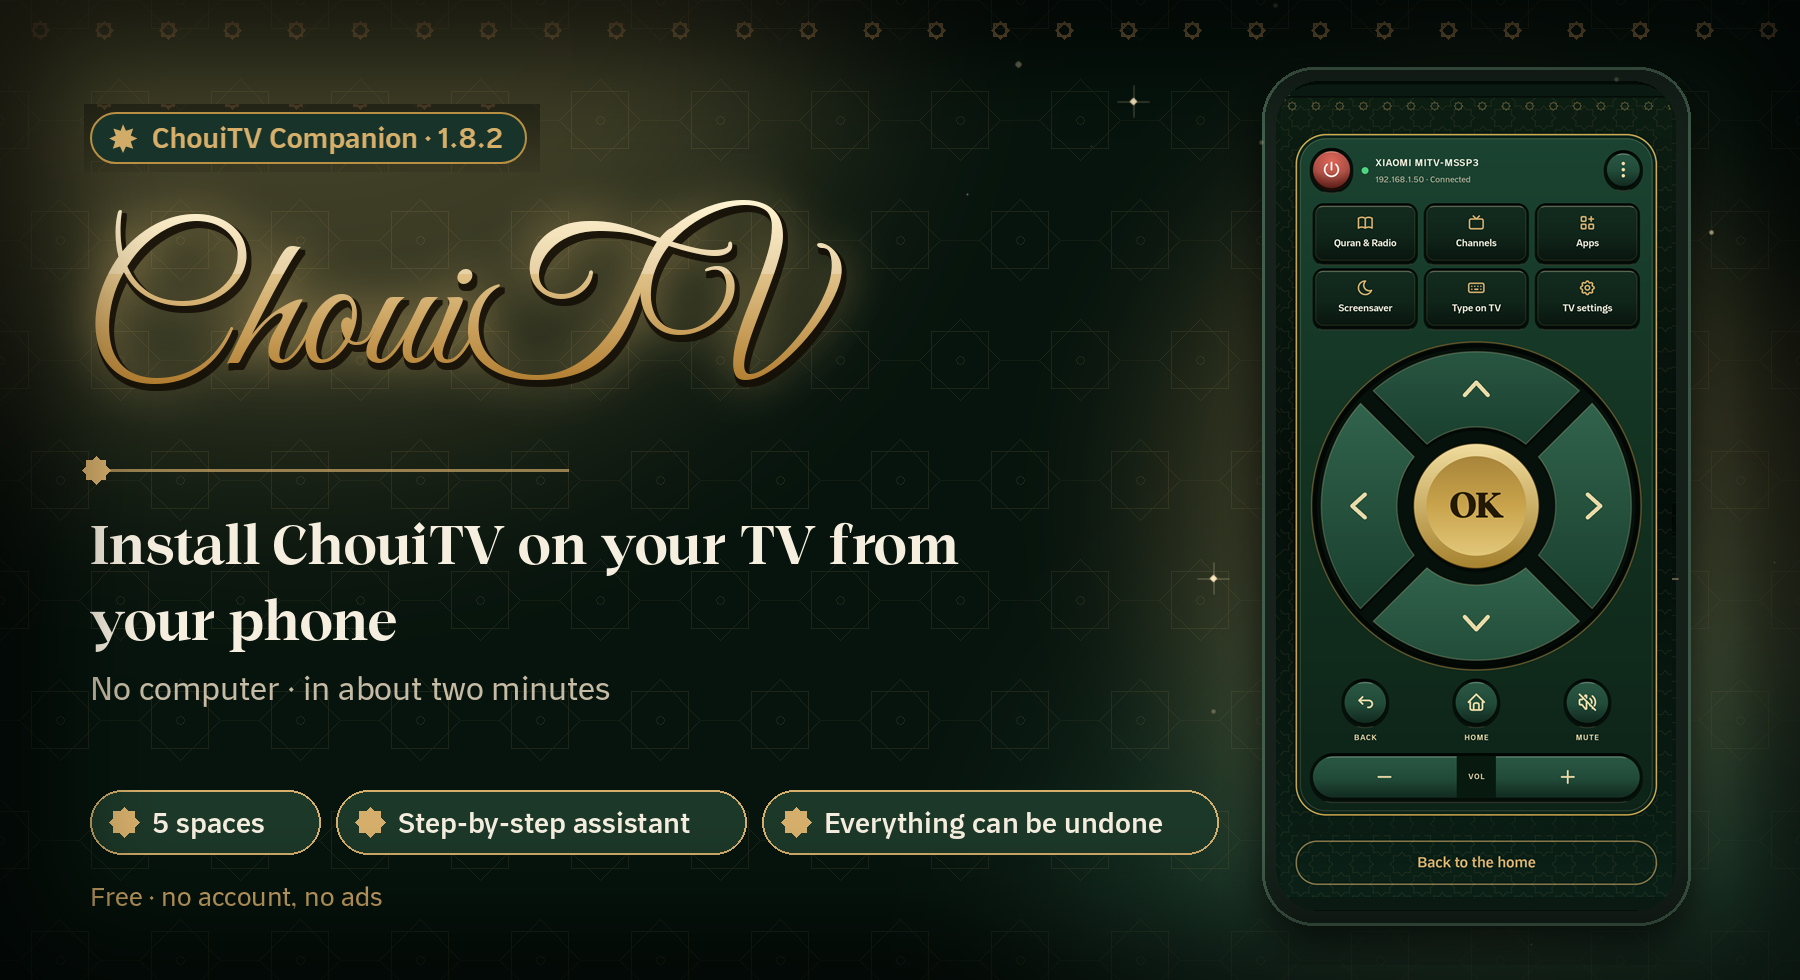
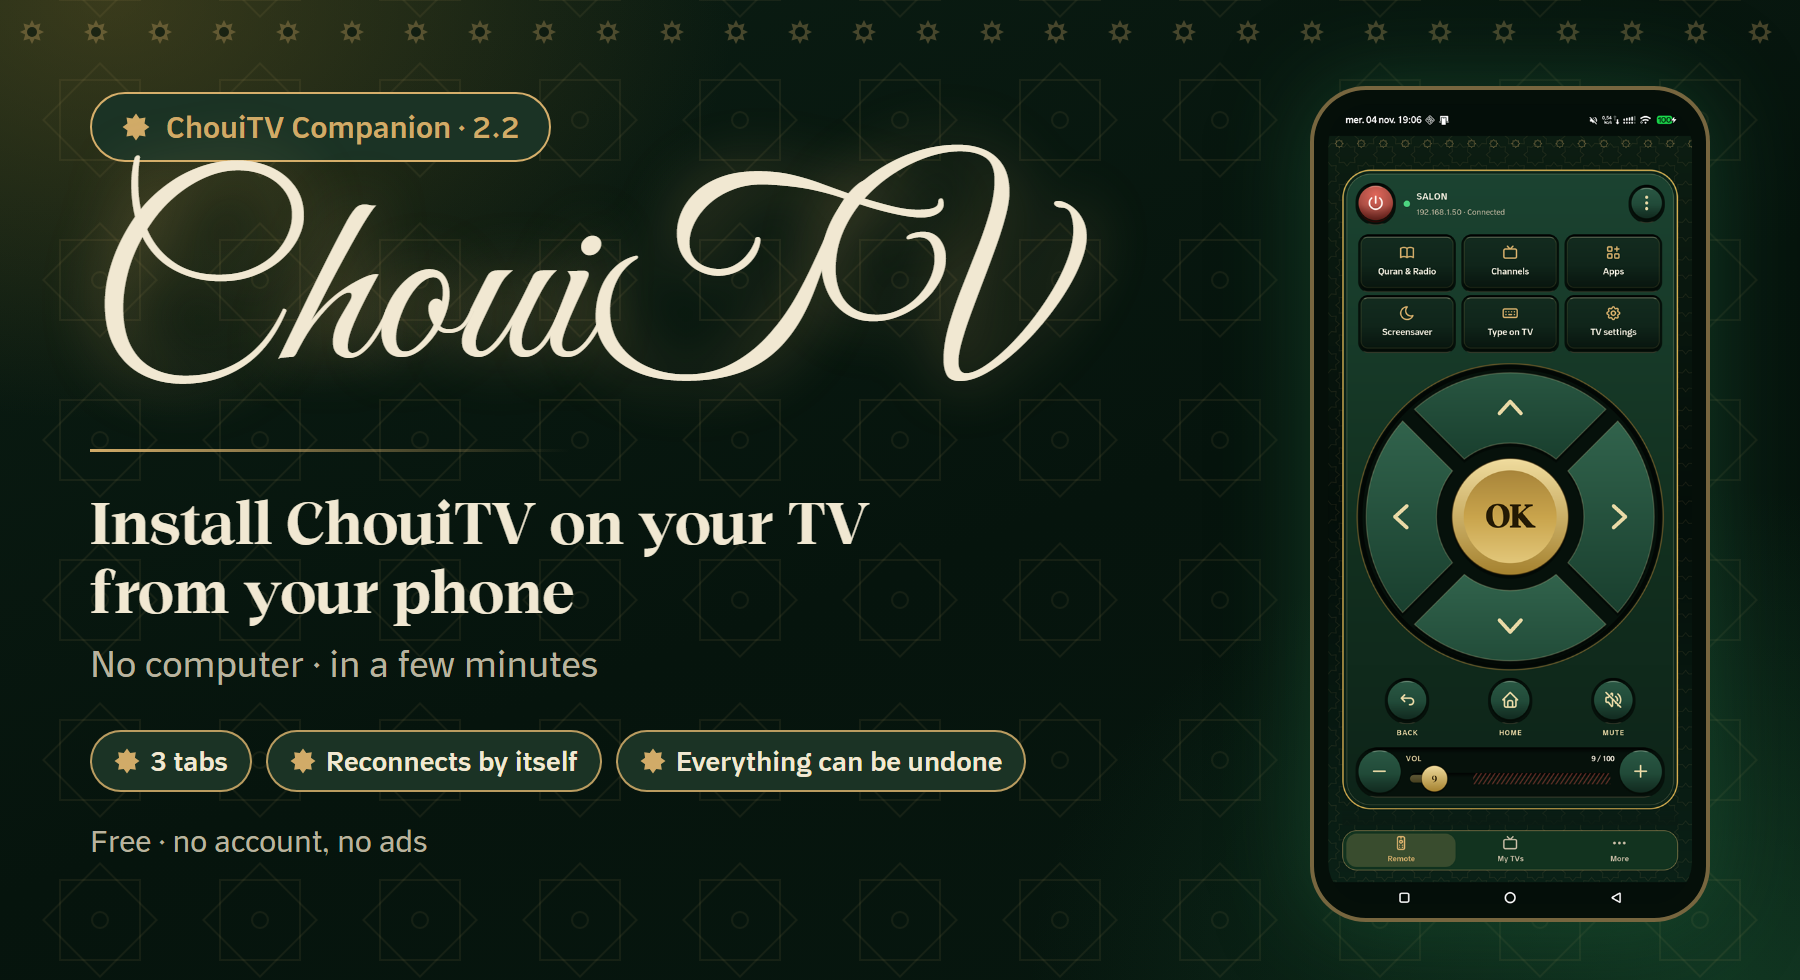
README images redone for 2.2: hero and a three-tabs image in Arabic, French and English from real phone screenshots (sources in docs/media/src), build_media.py draws them; the saved-settings screen says Back when opened from More

diff --git a/docs/media/src/hero.html b/docs/media/src/hero.html
@@ -1,0 +1,50 @@
+<!doctype html>
+<html><head><meta charset="utf-8">
+<link rel="stylesheet" href="common.css">
+<style>
+  body { height: 980px; }
+  .stage { height: 980px; padding: 92px 90px 0; display: grid; grid-template-columns: 1fr 400px; column-gap: 70px; }
+  .col { display: flex; flex-direction: column; }
+  .pillrow { margin-bottom: 8px; }
+  .logo { font-family: "GreatVibes", cursive; font-size: 250px; line-height: 1.05; color: #F1E8D2; text-shadow: 0 0 60px rgba(214, 175, 107, .45); margin: 0 0 6px; }
+  .rule { height: 3px; width: 480px; background: linear-gradient(90deg, var(--gold), transparent); margin: 10px 0 36px; }
+  [dir=rtl] .rule { background: linear-gradient(270deg, var(--gold), transparent); }
+  h1 { font-size: 58px; line-height: 1.2; }
+  .sub { font-size: 36px; color: var(--muted); margin: 14px 0 44px; font-weight: 400; }
+  .chips { display: flex; gap: 14px; flex-wrap: nowrap; }
+  .chip { display: inline-flex; align-items: center; gap: 10px; padding: 12px 22px; border-radius: 999px; border: 2px solid rgba(214, 175, 107, .85); background: #1B3325; color: var(--cream); font-size: 27px; font-weight: 500; white-space: nowrap; }
+  .chip svg { width: 26px; height: 26px; flex: none; }
+  .foot { margin-top: 30px; font-size: 30px; color: var(--muted); }
+  .phone { margin-top: -6px; width: 400px; height: 836px; border-radius: 56px; border: 4px solid rgba(214, 175, 107, .55); background: #050f09; padding: 14px; box-shadow: 0 0 90px rgba(32, 98, 60, .5); }
+  .phone img { width: 100%; height: 100%; object-fit: cover; object-position: top; border-radius: 42px; display: block; }
+</style></head>
+<body>
+<div class="stage" id="root">
+  <div class="col">
+    <div class="pillrow"><span class="pill"><svg class="star" viewBox="0 0 100 100"><use href="#st" fill="#D1AB68"/></svg><span dir="ltr">ChouiTV Companion · 2.2</span></span></div>
+    <div class="logo ltr">ChouiTV</div>
+    <div class="rule"></div>
+    <h1 id="t"></h1>
+    <p class="sub" id="s"></p>
+    <div class="chips" id="chips"></div>
+    <p class="foot" id="f"></p>
+  </div>
+  <div class="phone"><img id="shot" alt=""></div>
+</div>
+<script src="common.js"></script>
+<script>
+const L = {
+  fr: { dir: "ltr", t: "Installez ChouiTV sur votre télé<br>depuis votre téléphone", s: "Sans ordinateur · en environ quelques minutes",
+        chips: ["3 onglets", "Se reconnecte tout seul", "Tout est annulable"], f: "Gratuit · sans compte ni publicité" },
+  en: { dir: "ltr", t: "Install ChouiTV on your TV<br>from your phone", s: "No computer · in a few minutes",
+        chips: ["3 tabs", "Reconnects by itself", "Everything can be undone"], f: "Free · no account, no ads" },
+  ar: { dir: "rtl", t: "ثبّت ChouiTV على تلفازك<br>من هاتفك", s: "دون حاسوب · في دقائق قليلة",
+        chips: ["ثلاثة تبويبات", "يعيد الاتصال وحده", "كل شيء يمكن التراجع عنه"], f: "مجاني · دون حساب ولا إعلانات" }
+};
+const c = pageLang(L);
+const lang = document.documentElement.lang;
+document.getElementById("t").innerHTML = c.t; document.getElementById("s").innerHTML = c.s; document.getElementById("f").innerHTML = c.f;
+document.getElementById("chips").innerHTML = c.chips.map(x => `<span class="chip"><svg viewBox="0 0 100 100"><use href="#st" fill="#D1AB68"/></svg>${x}</span>`).join("");
+document.getElementById("shot").src = "shots/" + lang + "-remote.png";
+</script>
+</body></html>

diff --git a/docs/media/src/tabs.html b/docs/media/src/tabs.html
@@ -1,0 +1,37 @@
+<!doctype html>
+<html><head><meta charset="utf-8">
+<link rel="stylesheet" href="common.css">
+<style>
+  body { height: 1300px; }
+  .stage { height: 1300px; padding: 60px 90px 0; }
+  .head { display: flex; align-items: baseline; gap: 26px; margin-bottom: 30px; }
+  h1 { font-size: 64px; }
+  .tag { font-size: 24px; }
+  .row { display: flex; gap: 90px; justify-content: center; }
+  .item { width: 420px; display: flex; flex-direction: column; align-items: center; }
+  .phone { width: 420px; height: 900px; border-radius: 52px; border: 4px solid rgba(214, 175, 107, .55); background: #050f09; padding: 12px; box-shadow: 0 0 70px rgba(32, 98, 60, .45); }
+  .phone img { width: 100%; height: 100%; object-fit: cover; object-position: top; border-radius: 40px; display: block; }
+  .item b { margin-top: 26px; font-size: 40px; color: var(--gold); font-weight: 700; }
+  .item span { margin-top: 6px; font-size: 28px; color: var(--cream); text-align: center; line-height: 1.3; }
+</style></head>
+<body>
+<div class="stage" id="root">
+  <div class="head"><h1 id="t"></h1></div>
+  <div class="row" id="row"></div>
+</div>
+<script src="common.js"></script>
+<script>
+const L = {
+  fr: { dir: "ltr", t: "Trois onglets, tout au même endroit",
+        items: [["Télécommande", "Elle s'ouvre toujours ici", "remote"], ["Mes télés", "Une carte par télé, avec son état", "tvs"], ["Équiper une télé", "Les étapes, la durée, vos réglages", "equip"]] },
+  en: { dir: "ltr", t: "Three tabs, everything in one place",
+        items: [["Remote", "It always opens here", "remote"], ["My TVs", "One card per TV, with its state", "tvs"], ["Set up a TV", "The steps, the time, your settings", "equip"]] },
+  ar: { dir: "rtl", t: "ثلاثة تبويبات وكل شيء في مكان واحد",
+        items: [["جهاز التحكم", "يفتح دائمًا هنا", "remote"], ["تلفازاتي", "بطاقة لكل تلفاز بحالته", "tvs"], ["تجهيز تلفاز", "الخطوات والمدة وإعداداتك", "equip"]] }
+};
+const c = pageLang(L);
+const lang = document.documentElement.lang;
+document.getElementById("t").innerHTML = c.t;
+document.getElementById("row").innerHTML = c.items.map(([h, p, k]) => `<div class="item"><div class="phone"><img src="shots/${lang}-${k}.png" alt=""></div><b>${h}</b><span>${p}</span></div>`).join("");
+</script>
+</body></html>

diff --git a/docs/media/build_media.py b/docs/media/build_media.py
@@ -2,15 +2,16 @@
 """Regenerates the drawn images of the READMEs (never the real phone screenshots).
 
     python docs/media/build_media.py            # everything
-    python docs/media/build_media.py whatsnew   # one kind: whatsnew, migration, hero, qr
+    python docs/media/build_media.py whatsnew   # one kind: whatsnew, migration, hero, tabs, qr
 
 What it makes
   whatsnew-{ar,fr,en}.png   the "what's new" card of the current version   (docs/media/src/whatsnew.html)
   migration-{ar,fr,en}.png  the 3.x -> 4.0 diagram                          (docs/media/src/migration.html)
   qr-download.png           the QR code of the STABLE link (releases/latest/download/ChouiTV-Installer.apk): it never needs redoing
                             for a new version. Needs the 'qrcode' package (pip install qrcode).
-  hero-{ar,fr,en}.png       only the version number in the pill is redrawn; the phone screenshot inside is a real
-                            screenshot and is left as it is. Idempotent: running it twice gives the same file.
+  hero-{ar,fr,en}.png       the top image of the READMEs (docs/media/src/hero.html); the phone inside is a real screenshot
+                            (docs/media/src/shots/<lang>-remote.png). The version number is in the pill of hero.html.
+  tabs-{ar,fr,en}.png       the three tabs side by side (docs/media/src/tabs.html), real screenshots in docs/media/src/shots/
 
 Needs: Python 3 with Pillow (pip install pillow), and Microsoft Edge or Google Chrome (set CHROME to its path if it is not found).
 Fonts are the ones in app/src/main/assets/fonts (licences: THIRD_PARTY_NOTICES.md). The HTML in docs/media/src is the source of truth:
@@ -24,9 +25,8 @@ import tempfile
 
 HERE = os.path.dirname(os.path.abspath(__file__))
 FONTS = os.path.join(HERE, "..", "..", "app", "src", "main", "assets", "fonts")
-VERSION = "1.6"
 LANGS = ("ar", "fr", "en")
-SIZES = {"whatsnew": (1800, 980), "migration": (1800, 780)}
+SIZES = {"whatsnew": (1800, 980), "migration": (1800, 780), "hero": (1800, 980), "tabs": (1800, 1300)}
 
 
 def browser():
@@ -60,27 +60,6 @@ def shot(kind, lang):
     print("wrote", out)
 
 
-def hero():
-    """Redraws the last digit of 'ChouiTV Installer · 1.x' in the pill. Position and colours measured on the 1800x980 images."""
-    from PIL import Image, ImageDraw, ImageFont
-    S = 8
-    font = ImageFont.truetype(os.path.join(FONTS, "Thmanyah-Medium.otf"), 26 * S)
-    boxes = {"fr": (398, 126, 414, 148), "en": (398, 126, 414, 148), "ar": (1632, 125, 1648, 148)}   # what is wiped
-    digit = VERSION[-1]
-    mask = Image.new("L", (40 * S, 40 * S), 0)
-    ImageDraw.Draw(mask).text((2 * S, 0), digit, font=font, fill=255)
-    mask = mask.crop(mask.getbbox()).resize((12, 18), Image.LANCZOS)   # the pill's own font is narrower than Thmanyah: squeezed to the old digit's size
-    for lang in LANGS:
-        path = os.path.join(HERE, "hero-%s.png" % lang)
-        im = Image.open(path).convert("RGB")
-        x0, y0, x1, y1 = boxes[lang]
-        fill = im.getpixel((x0 + 1, y0 + 1))                       # the pill is a flat colour
-        ImageDraw.Draw(im).rectangle((x0, y0, x1, y1), fill=fill)
-        im.paste(Image.new("RGB", mask.size, (209, 171, 104)), (x0 + 2, y0 + 3), mask)
-        im.save(path, optimize=True)
-        print("patched", path)
-
-
 def qr():
     import qrcode
     from PIL import Image, ImageDraw
@@ -106,11 +85,9 @@ def qr():
 
 
 if __name__ == "__main__":
-    what = sys.argv[1:] or ["whatsnew", "migration", "hero", "qr"]
+    what = sys.argv[1:] or ["whatsnew", "migration", "hero", "tabs", "qr"]
     for k in what:
-        if k == "hero":
-            hero()
-        elif k == "qr":
+        if k == "qr":
             qr()
         else:
             for lang in LANGS:

diff --git a/app/src/main/java/ma/chouitv/installer/MainActivity.java b/app/src/main/java/ma/chouitv/installer/MainActivity.java
@@ -3354,7 +3354,7 @@ public class MainActivity extends Activity {
         if (getMode) {
             secondaryBelow(button, t("cl_home"), () -> show(12));
         } else {
-            button.setText(t("cl_home"));
+            button.setText(t(profilesFromMore ? "back" : "cl_home"));   // from «More» it is plainly «Back»
             secondaryStyle(button);   // each saved setting has its own «send»: the way back must not compete with them
             button.setOnClickListener(v -> show(profilesFromMore ? 26 : 12));
         }

diff --git a/README.fr.md b/README.fr.md
@@ -25,6 +25,8 @@ Une petite appli sur votre téléphone (**ChouiTV Companion**) qui trouve votre 
 
 <img src="docs/media/remote-fr.png" alt="La télécommande de ChouiTV Companion et son pop-up d'applications, sur un téléphone connecté à la télé" width="100%">
 
+<img src="docs/media/tabs-fr.png" alt="Les trois onglets de ChouiTV Companion : la télécommande, Mes télés et Équiper une télé" width="100%">
+
 L'appli s'appelle désormais **ChouiTV Companion** (elle s'appelait ChouiTV Installer jusqu'à la 1.7) : elle installe et nettoie toujours, et **elle pilote aussi la télé**.
 
 - **Une vraie télécommande dans votre poche** : un pavé à quatre secteurs autour d'un grand OK, Retour, Accueil, Muet, volume et veille, avec des touches en relief qui s'enfoncent sous le doigt. Gardez le doigt sur une flèche ou sur le volume pour répéter.

diff --git a/README.en.md b/README.en.md
@@ -25,6 +25,8 @@ A small app on your phone (**ChouiTV Companion**) that finds your TV, drives it 
 
 <img src="docs/media/remote-en.png" alt="The ChouiTV Companion remote and its apps pop-up, on a phone connected to the TV" width="100%">
 
+<img src="docs/media/tabs-en.png" alt="The three tabs of ChouiTV Companion: the remote, My TVs and Set up a TV" width="100%">
+
 The app is now called **ChouiTV Companion** (it was ChouiTV Installer up to 1.7): it still installs and cleans, and **it also drives the TV**.
 
 - **A real remote in your pocket**: a pad of four wedges around a big OK, Back, Home, Mute, volume and power, with raised keys that sink under your finger. Hold an arrow or the volume to repeat.

diff --git a/README.md b/README.md
@@ -29,6 +29,8 @@
 
 <img src="docs/media/remote-ar.png" alt="جهاز التحكم في ChouiTV Companion ونافذة التطبيقات، على هاتف متصل بالتلفزيون" width="100%">
 
+<img src="docs/media/tabs-ar.png" alt="التبويبات الثلاثة في ChouiTV Companion: جهاز التحكم وتلفازاتي وتجهيز تلفاز" width="100%">
+
 <div dir="rtl" align="right">
 
 أصبح اسم التطبيق **ChouiTV Companion** (كان ChouiTV Installer حتى الإصدار 1.7): ما زال يثبّت وينظّف، و**يتحكّم الآن في التلفزيون أيضًا**.
